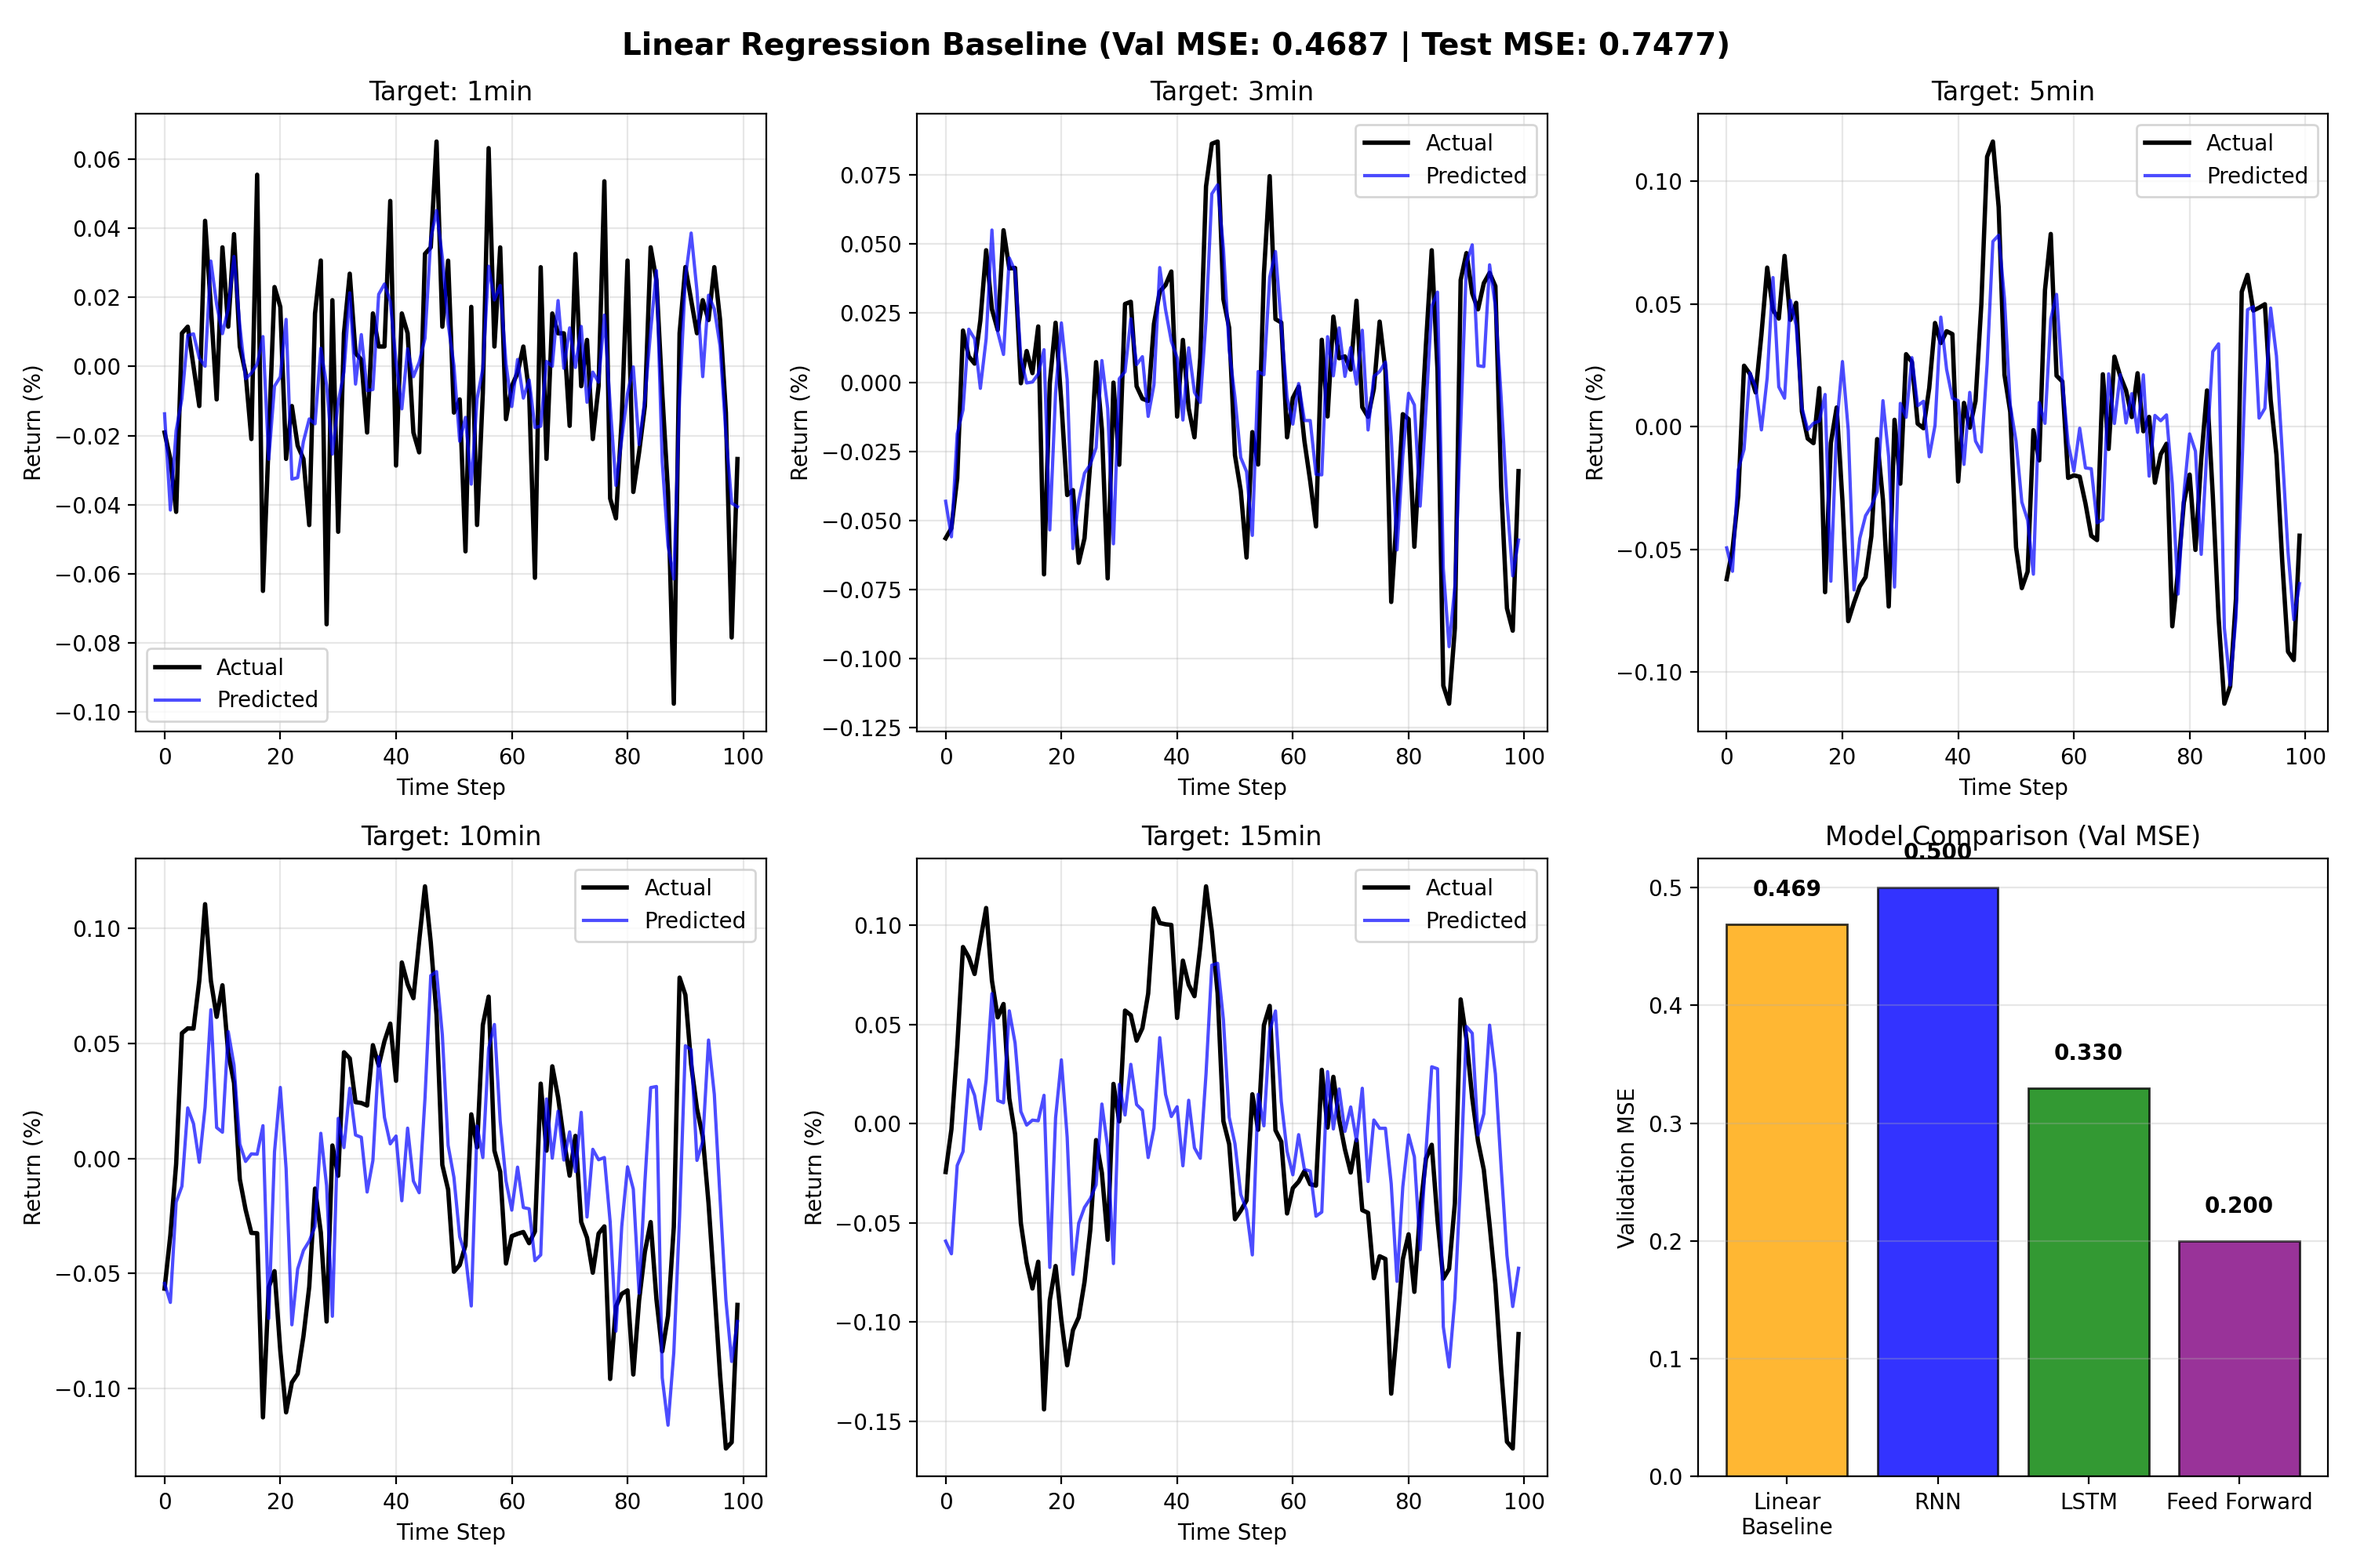
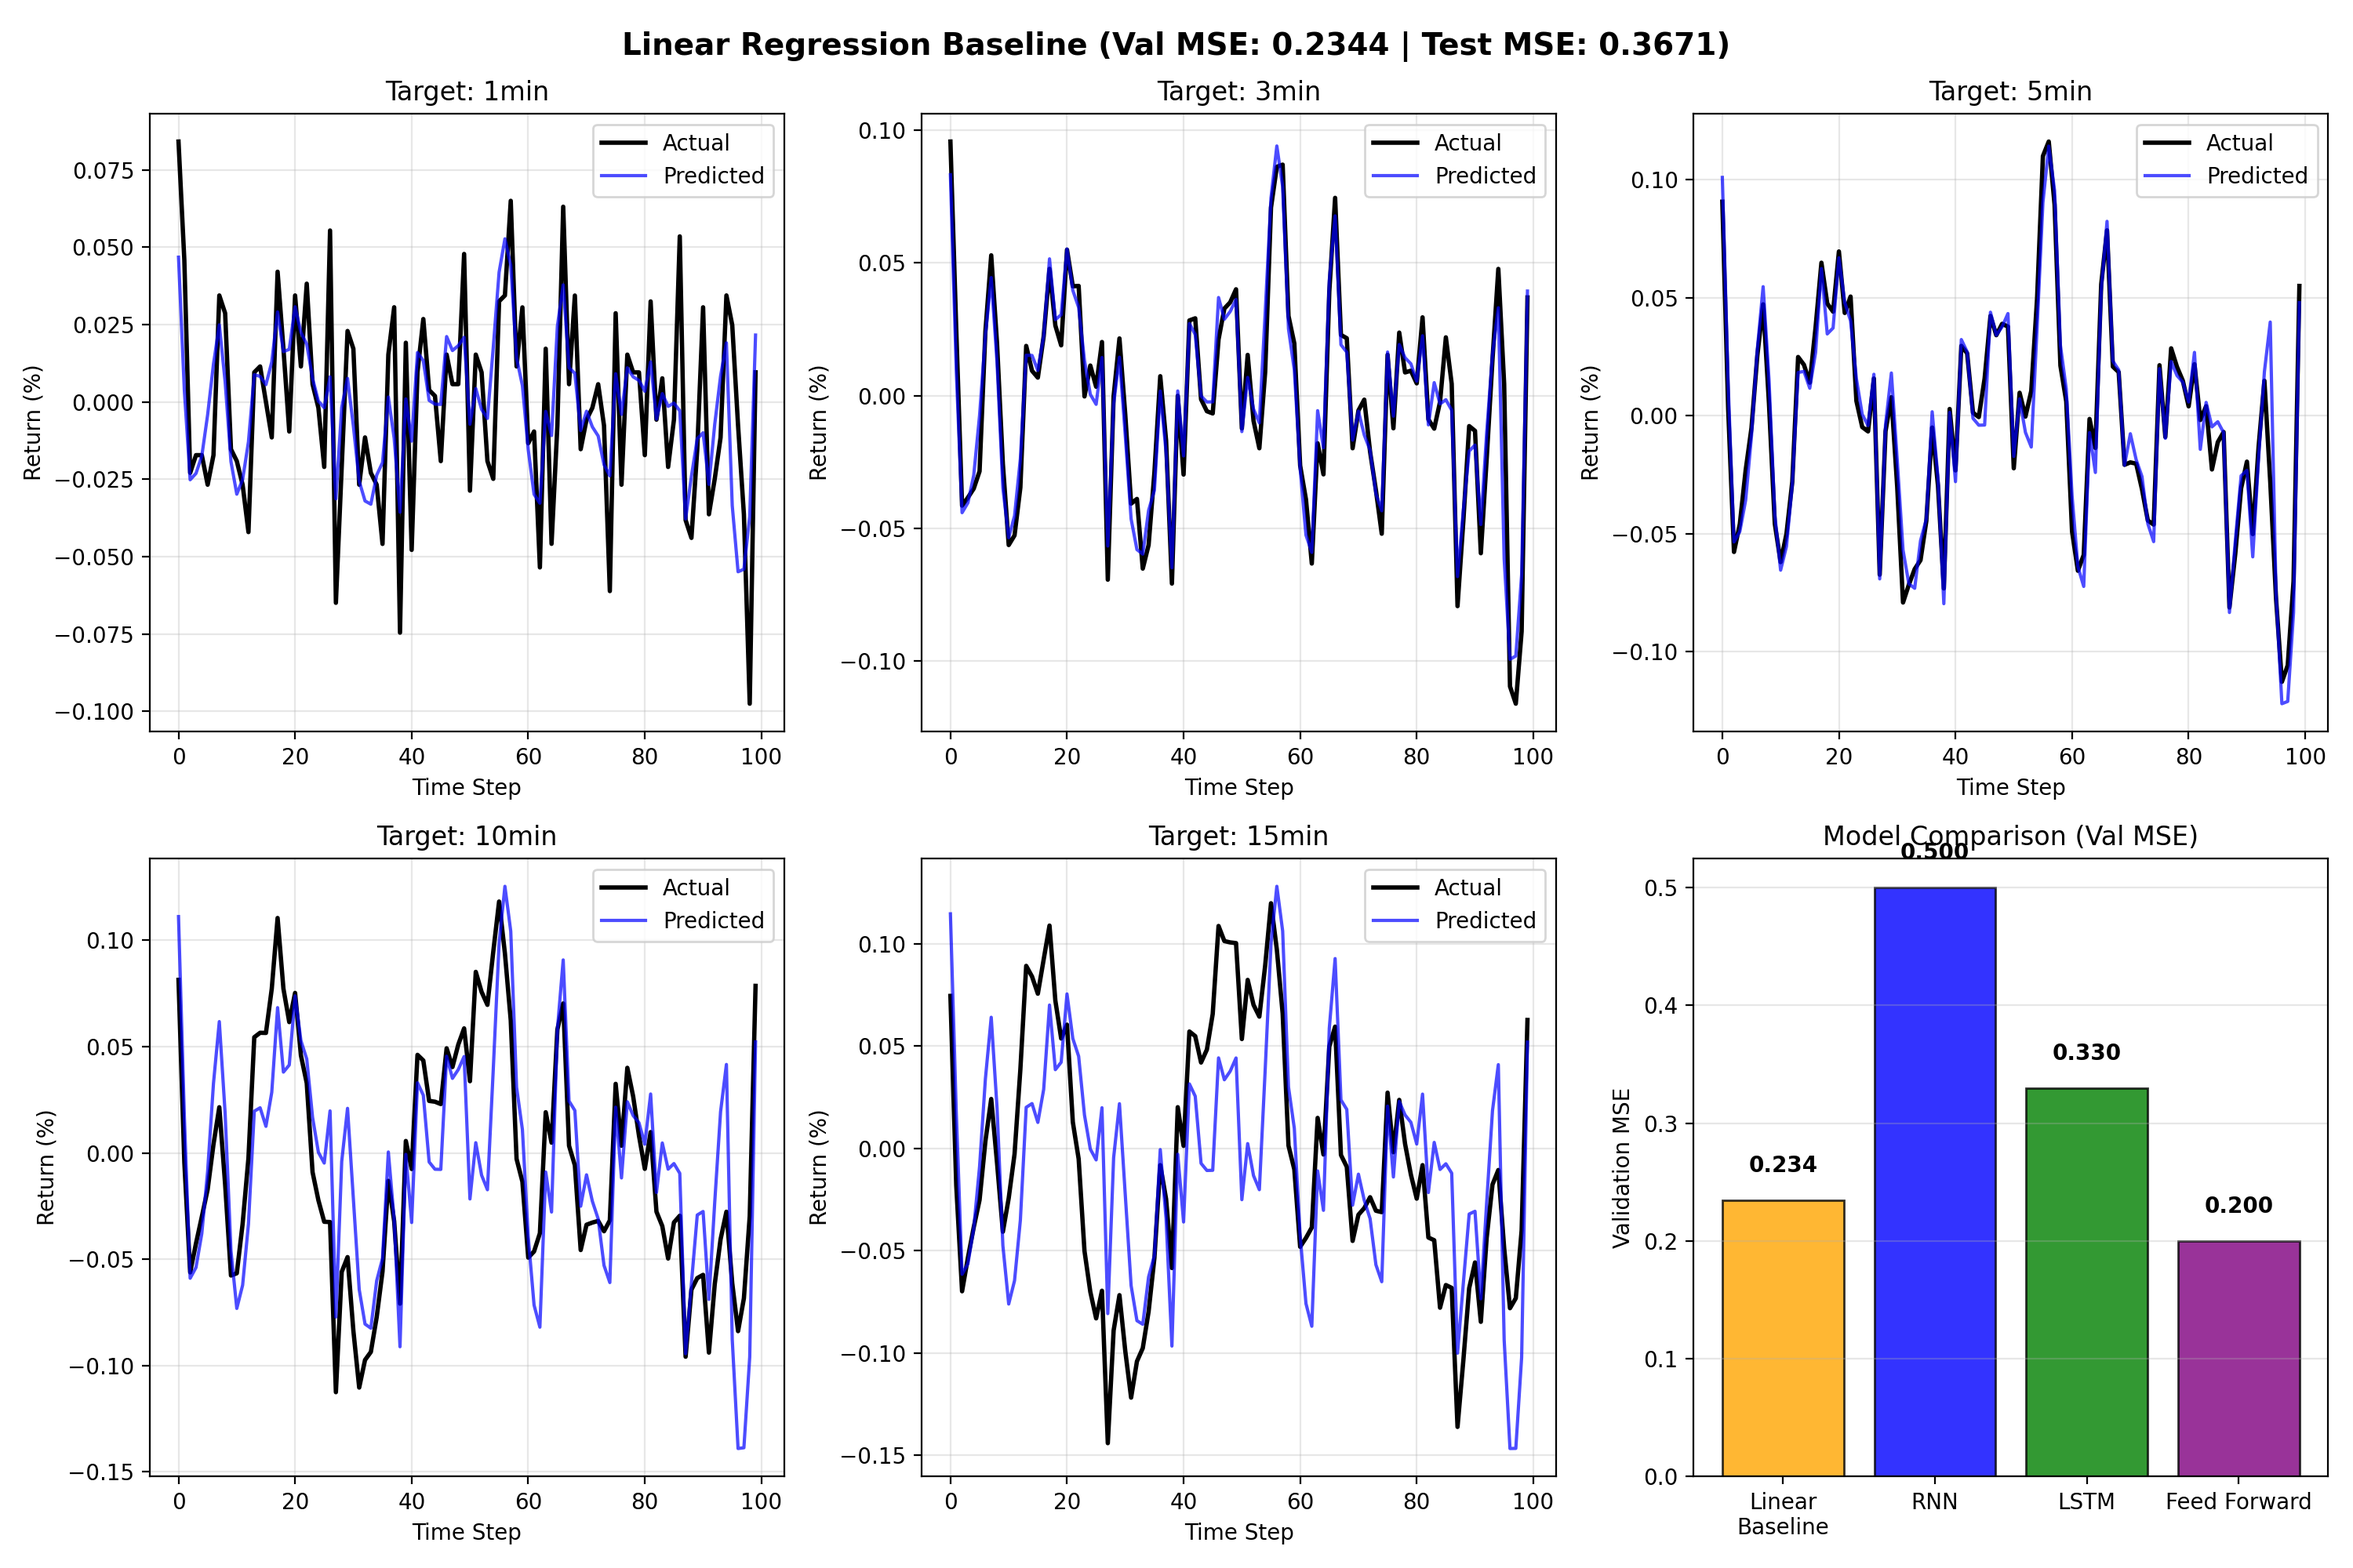
Fix baseline

diff --git a/nasdaq_trading_bot/scripts/06_model_training/baseline/baseline.py b/nasdaq_trading_bot/scripts/06_model_training/baseline/baseline.py
@@ -2,7 +2,7 @@
 Baseline: Linear Regression
 ===========================
 Simple linear regression baseline for model comparison.
-Uses flattened sequences to match RNN/LSTM input format.
+LINEAR REGRESSION SHOULD NOT USE SEQUENCES - just direct regression on features.
 """
 
 import os
@@ -21,21 +21,7 @@ images_dir = os.path.join(project_root, "images")
 os.makedirs(images_dir, exist_ok=True)
 
 
-def create_sequences(X, y, sequence_length=10):
-    """Creates sequences matching RNN setup."""
-    X_seq, y_seq = [], []
-    for i in range(len(X) - sequence_length):
-        X_seq.append(X[i:i + sequence_length])
-        y_seq.append(y[i + sequence_length])
-    return np.array(X_seq), np.array(y_seq)
-
-
-def flatten_sequences(X_seq):
-    """Flatten sequences for linear model: (samples, time, features) -> (samples, time*features)"""
-    return X_seq.reshape(X_seq.shape[0], -1)
-
-
-# Load data
+# Load data - NO SEQUENCES for Linear Regression!
 print("Loading data...")
 X_train_scaled = pd.read_csv(os.path.join(data_dir, 'X_train_scaled.csv'), index_col=0).values
 y_train_scaled = pd.read_csv(os.path.join(data_dir, 'y_train_scaled.csv'), index_col=0).values
@@ -57,36 +43,26 @@ print(f"Train: X={X_train_scaled.shape}, y={y_train_scaled.shape}")
 print(f"Val:   X={X_val_scaled.shape}, y={y_val_scaled.shape}")
 print(f"Test:  X={X_test_scaled.shape}, y={y_test_scaled.shape}")
 
-# Create sequences (matching RNN with seq_length=10)
-sequence_length = 10
-X_train_seq, y_train_seq = create_sequences(X_train_scaled, y_train_scaled, sequence_length)
-X_val_seq, y_val_seq = create_sequences(X_val_scaled, y_val_scaled, sequence_length)
-X_test_seq, y_test_seq = create_sequences(X_test_scaled, y_test_scaled, sequence_length)
-
-# Flatten for linear regression
-X_train_flat = flatten_sequences(X_train_seq)
-X_val_flat = flatten_sequences(X_val_seq)
-X_test_flat = flatten_sequences(X_test_seq)
-
-print(f"\nFlattened: Train={X_train_flat.shape}, Val={X_val_flat.shape}, Test={X_test_flat.shape}")
+# NO sequence creation - use data directly like Feed Forward does!
+# This is the correct approach for linear regression baseline
 
 # Train Linear Regression
-print("\nTraining Linear Regression...")
+print("\nTraining Linear Regression (without sequences)...")
 model = LinearRegression()
-model.fit(X_train_flat, y_train_seq)
+model.fit(X_train_scaled, y_train_scaled)
 
 # Predict
-y_pred_train = model.predict(X_train_flat)
-y_pred_val = model.predict(X_val_flat)
-y_pred_test = model.predict(X_test_flat)
+y_pred_train = model.predict(X_train_scaled)
+y_pred_val = model.predict(X_val_scaled)
+y_pred_test = model.predict(X_test_scaled)
 
 # Calculate metrics
-train_mse = mean_squared_error(y_train_seq, y_pred_train)
-val_mse = mean_squared_error(y_val_seq, y_pred_val)
-test_mse = mean_squared_error(y_test_seq, y_pred_test)
-train_mae = mean_absolute_error(y_train_seq, y_pred_train)
-val_mae = mean_absolute_error(y_val_seq, y_pred_val)
-test_mae = mean_absolute_error(y_test_seq, y_pred_test)
+train_mse = mean_squared_error(y_train_scaled, y_pred_train)
+val_mse = mean_squared_error(y_val_scaled, y_pred_val)
+test_mse = mean_squared_error(y_test_scaled, y_pred_test)
+train_mae = mean_absolute_error(y_train_scaled, y_pred_train)
+val_mae = mean_absolute_error(y_val_scaled, y_pred_val)
+test_mae = mean_absolute_error(y_test_scaled, y_pred_test)
 
 print("\n" + "="*50)
 print("BASELINE: LINEAR REGRESSION RESULTS")
@@ -108,7 +84,7 @@ print(f"    Feed Forward Val MSE:      0.20")
 print("-"*50)
 
 # Inverse transform for plotting
-y_test_inv = scaler_y.inverse_transform(y_test_seq)
+y_test_inv = scaler_y.inverse_transform(y_test_scaled)
 y_pred_inv = scaler_y.inverse_transform(y_pred_test)
 
 # Plot
